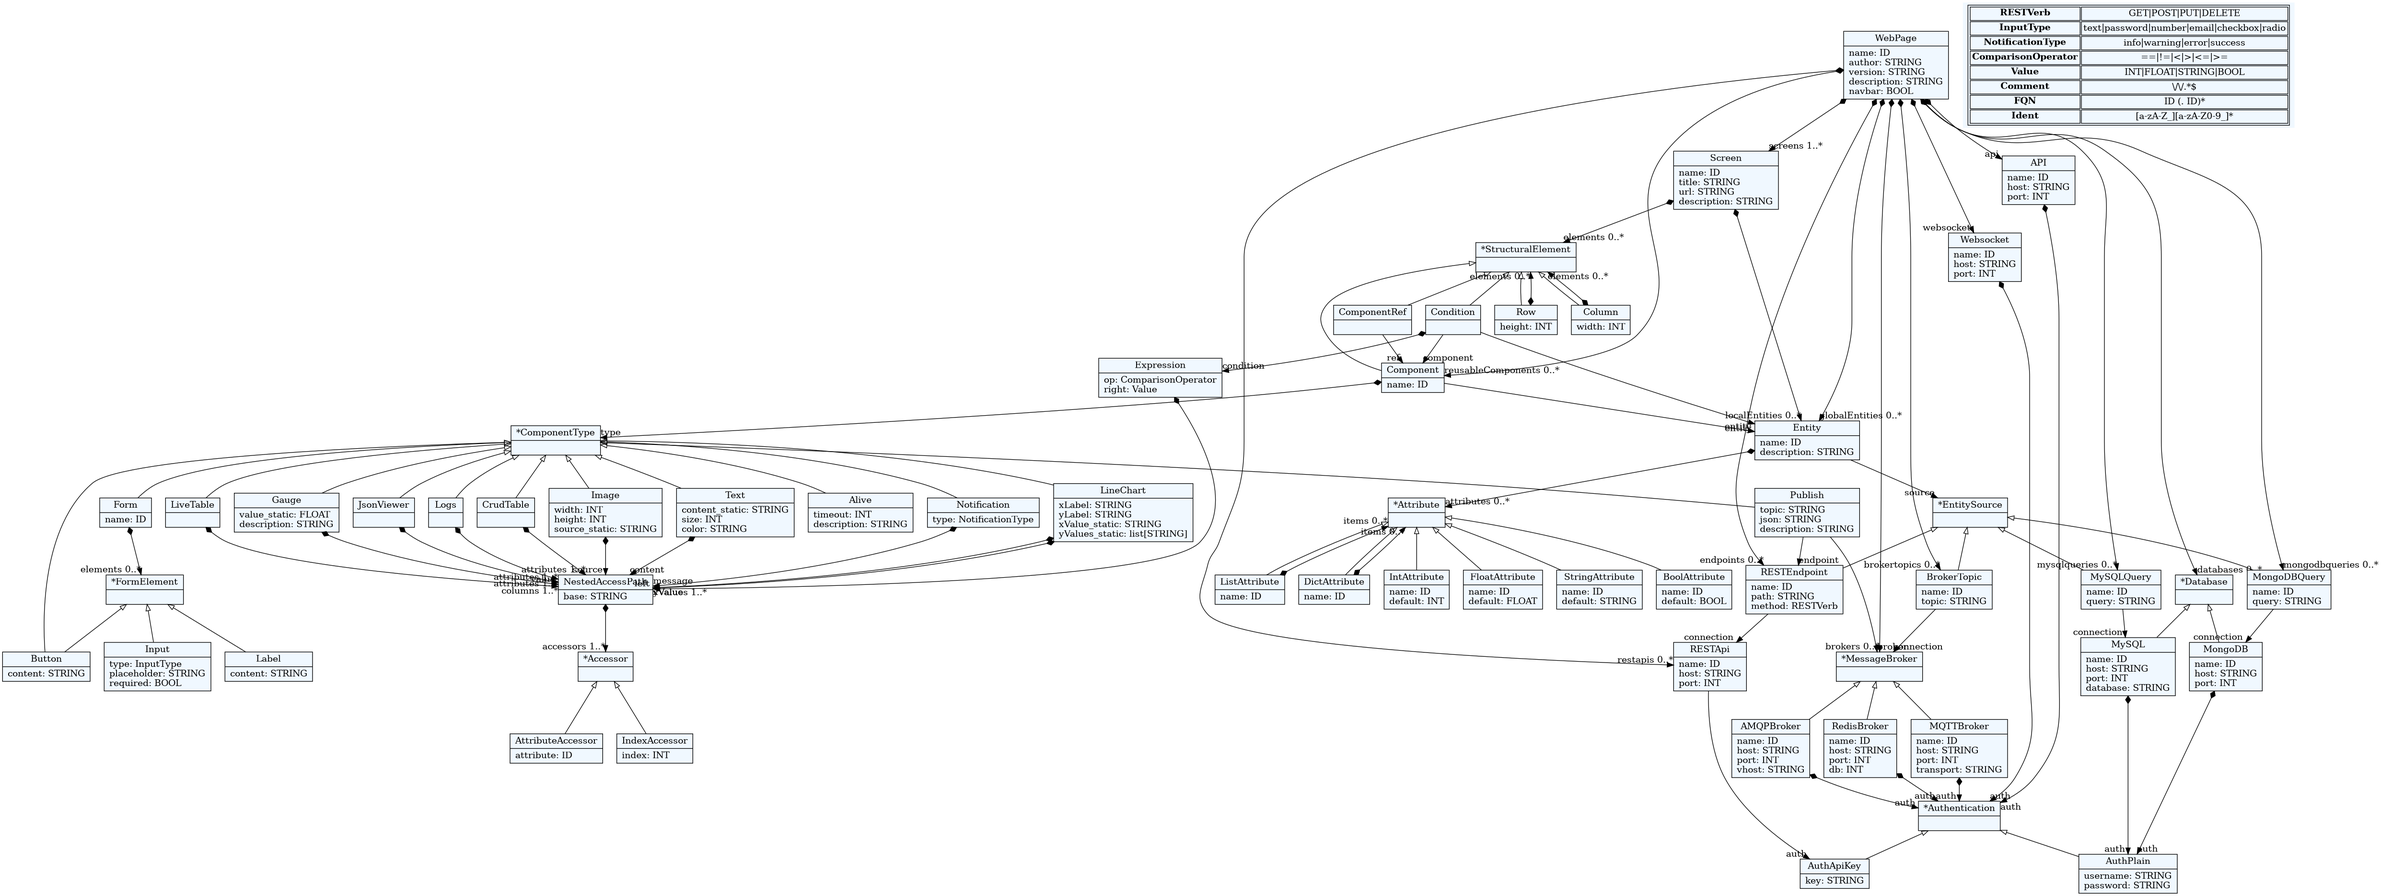
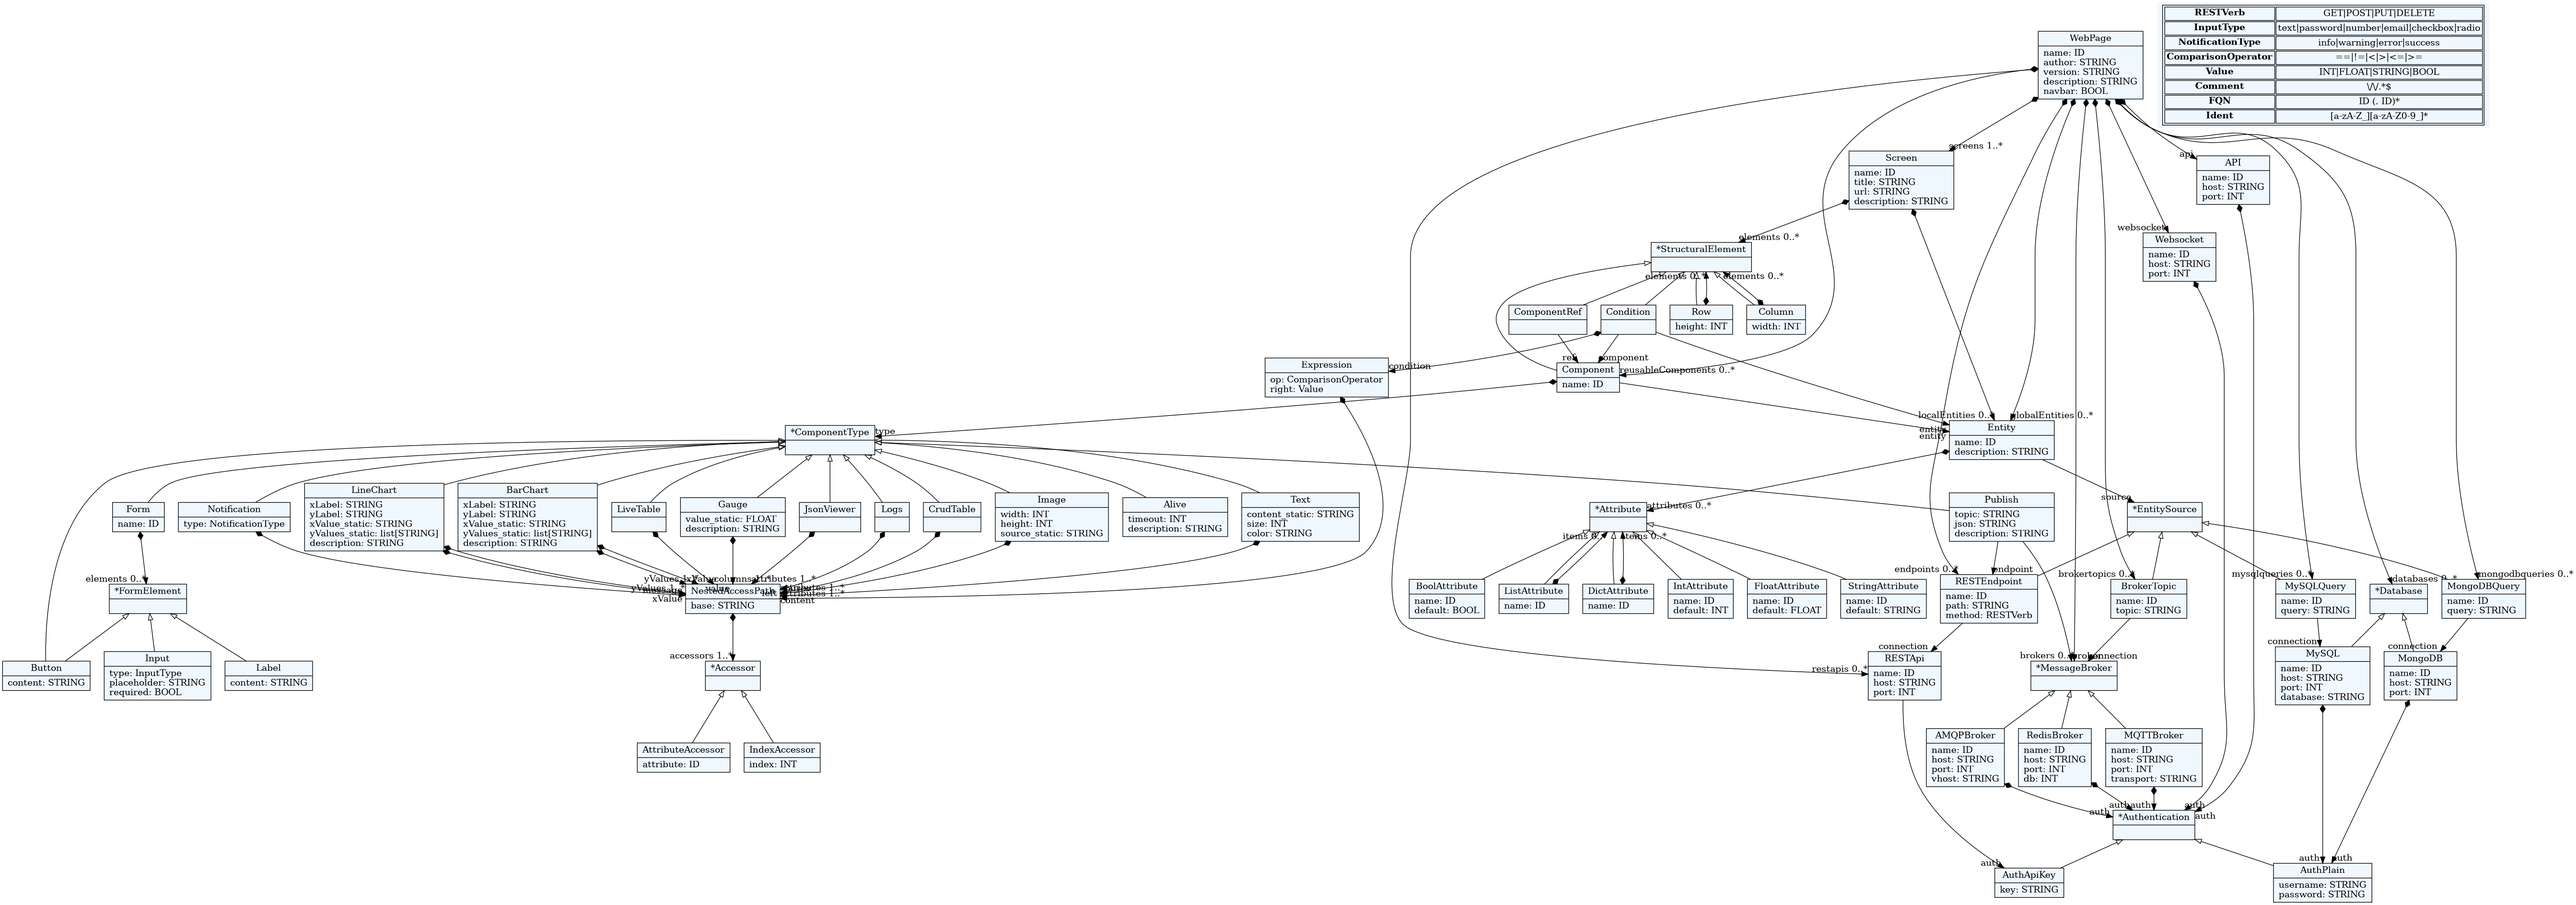
Weather station example added

diff --git a/web_dsl/base/frontend_base/src/components/CustomBarChart.jsx b/web_dsl/base/frontend_base/src/components/CustomBarChart.jsx
@@ -1,11 +1,4 @@
-import {
-    CartesianGrid,
-    Line,
-    LineChart,
-    Tooltip,
-    XAxis,
-    YAxis
-} from "recharts";
+import { CartesianGrid, BarChart, Bar, Tooltip, XAxis, YAxis } from "recharts";
 import { WebsocketContext } from "../context/WebsocketContext";
 import { useWebsocket } from "../hooks/useWebsocket";
 import { useContext, useState, useEffect } from "react";
@@ -15,7 +8,7 @@ import { toast } from "react-toastify";
 import { proxyRestCall } from "../api/proxyRestCall";
 import { queryDB } from "../api/dbQuery";
 
-const CustomLineChart = ({
+const CustomBarChart = ({
     topic,
     xLabel,
     yLabel,
@@ -33,7 +26,6 @@ const CustomLineChart = ({
     const { name, path, method, params } = restData || {};
     const pathNames = allPaths.map(getNameFromPath);
 
-    // Fetch and transform data from REST or DB
     const fetchExternalData = async () => {
         try {
             let allData = [];
@@ -44,8 +36,6 @@ const CustomLineChart = ({
                     : await queryDB(dbData);
             console.log(response);
 
-            // Get all data in the form of arrays
-            // [ [], [], ... ]
             for (const dataPath of allPaths) {
                 const data = getValueByPath(response, dataPath);
                 if (data) {
@@ -53,8 +43,6 @@ const CustomLineChart = ({
                 }
             }
 
-            // Turn the arrays into an array of objects
-            // [{}, {}, ...]
             const combinedData = allData[0].map((_, i) => {
                 const obj = {};
                 keys.forEach((key, j) => {
@@ -70,7 +58,6 @@ const CustomLineChart = ({
         }
     };
 
-    // WebSocket handler
     useWebsocket(sourceOfContent === "broker" ? ws : null, topic, (msg) => {
         try {
             const newData = {};
@@ -94,7 +81,7 @@ const CustomLineChart = ({
     }, []);
 
     const xDataKey = sourceOfContent === "static" ? xValue : pathNames[0];
-    const lineDataKeys =
+    const barDataKeys =
         sourceOfContent === "static" ? yValues : pathNames.slice(1);
     const colors = ["#fabd2f", "#d3869b", "#83a598", "#8ec07c", "#fe8019"];
 
@@ -112,7 +99,7 @@ const CustomLineChart = ({
                     <IoReload size={20} />
                 </button>
             )}
-            <LineChart
+            <BarChart
                 data={
                     sourceOfContent === "static" ? staticChartData : chartData
                 }
@@ -154,20 +141,18 @@ const CustomLineChart = ({
                     }}
                     itemStyle={{ color: "#fff" }}
                 />
-                {lineDataKeys.map((key, index) => (
-                    <Line
+                {barDataKeys.map((key, index) => (
+                    <Bar
                         key={key}
-                        isAnimationActive={false}
-                        type="monotone"
                         dataKey={key}
-                        stroke={colors[index % colors.length]}
-                        strokeWidth={2}
-                        dot={{ fill: colors[index % colors.length] }}
+                        fill={colors[index % colors.length]}
+                        barSize={25}
+                        isAnimationActive={false}
                     />
                 ))}
-            </LineChart>
+            </BarChart>
         </div>
     );
 };
 
-export default CustomLineChart;
+export default CustomBarChart;

diff --git a/web_dsl/lib/component.py b/web_dsl/lib/component.py
@@ -126,6 +126,7 @@ class LineChart(ComponentType):
         xValue_static=None,
         yValues_static=None,
         staticData=[],
+        description=None,
     ):
         super().__init__(parent, name)
         self.xLabel = xLabel
@@ -137,6 +138,34 @@ class LineChart(ComponentType):
         self.staticData = staticData
         self.xValue_static = xValue_static
         self.yValues_static = yValues_static
+        self.description = description
+
+
+class BarChart(ComponentType):
+    def __init__(
+        self,
+        parent=None,
+        name="BarChart",
+        xLabel="X-Axis",
+        yLabel="Y-Axis",
+        xValue=None,
+        yValues=None,
+        xValue_static=None,
+        yValues_static=None,
+        staticData=[],
+        description=None,
+    ):
+        super().__init__(parent, name)
+        self.xLabel = xLabel
+        self.yLabel = yLabel
+        if xValue is not None:
+            self.xValue = self.format_attribute_path(xValue)
+        if yValues is not None:
+            self.yValues = [self.format_attribute_path(yValue) for yValue in yValues]
+        self.staticData = staticData
+        self.xValue_static = xValue_static
+        self.yValues_static = yValues_static
+        self.description = description
 
 
 class Publish(ComponentType):

diff --git a/web_dsl/language.py b/web_dsl/language.py
@@ -21,6 +21,7 @@ from .lib.component import (
     Text,
     Logs,
     CrudTable,
+    BarChart,
 )
 
 from .lib.condition import Condition
@@ -41,6 +42,7 @@ custom_classes = [
     Logs,
     CrudTable,
     Condition,
+    BarChart,
     # Add other classes here
 ]
 
